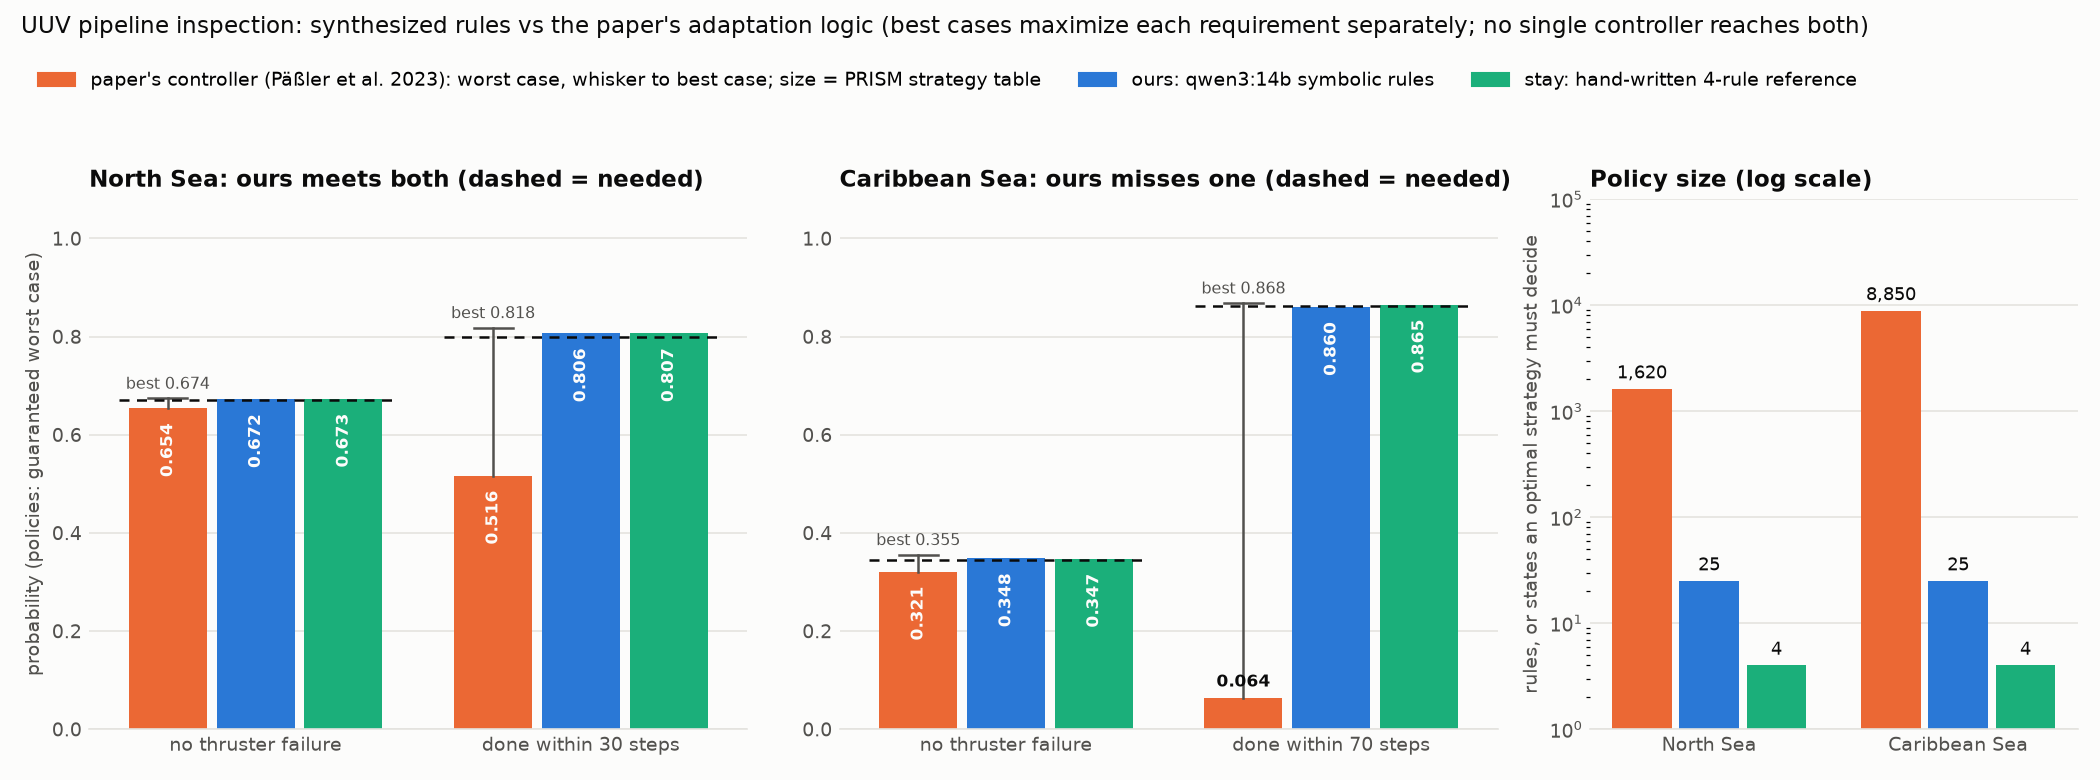
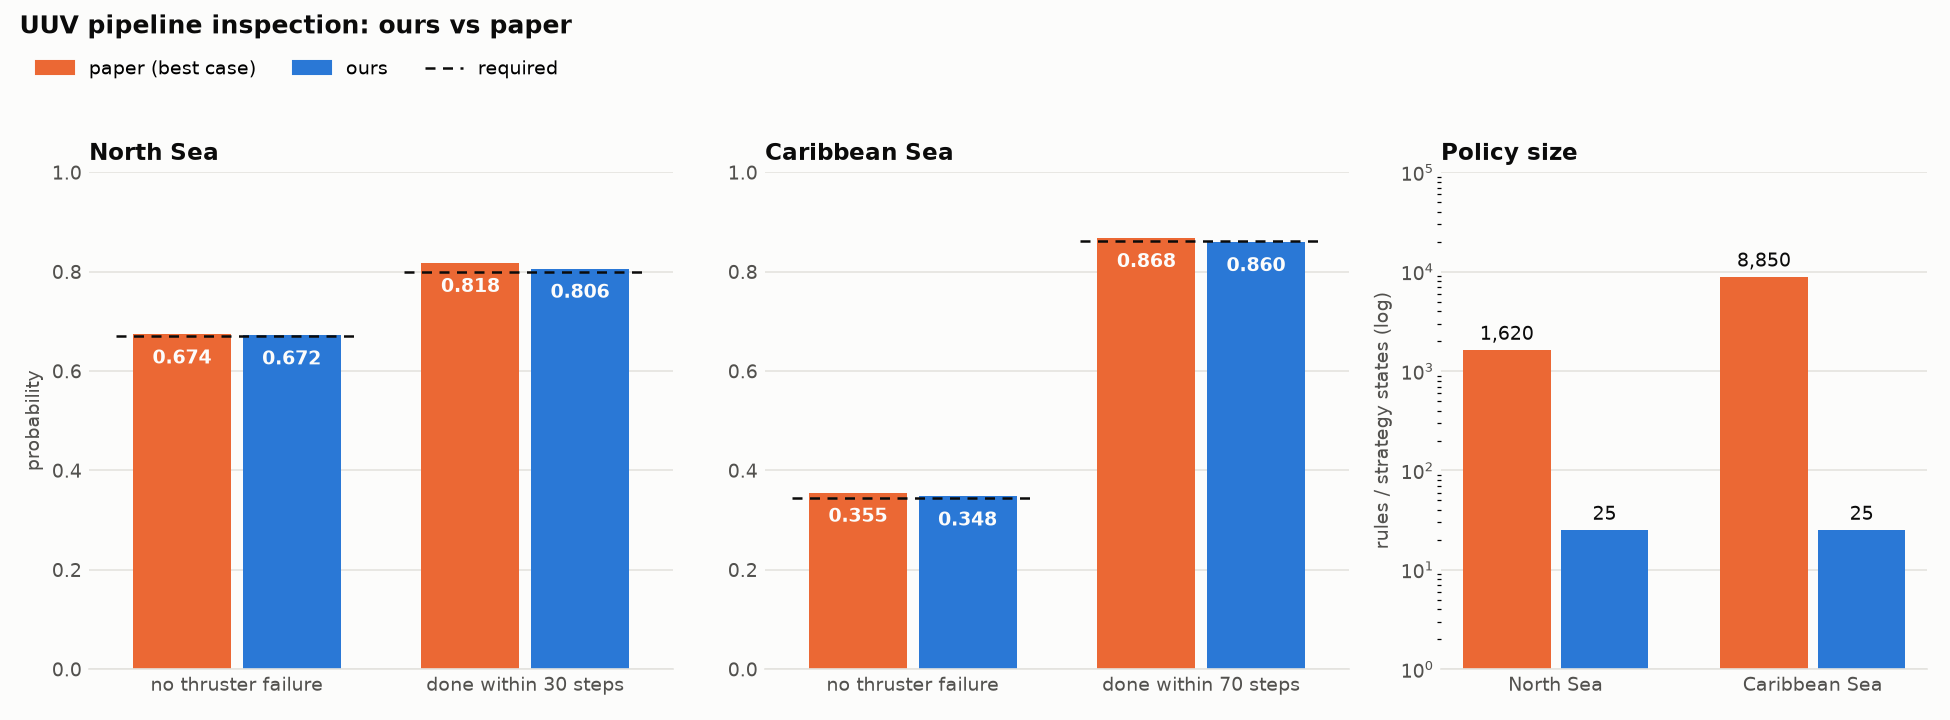
Declutter UUV summary figure: paper best case vs ours only

diff --git a/PRISM-Guided-Learning/viz/plot_uuv_summary.py b/PRISM-Guided-Learning/viz/plot_uuv_summary.py
@@ -3,10 +3,9 @@
 Usage (from PRISM-Guided-Learning/):
     python viz/plot_uuv_summary.py --symbolic out/results/symbolic_uuv --out viz/figures/uuv_summary.png
 
-Left: worst-case probability of our final policy and of the hand-written `stay` reference, against
-the paper's nondeterministic controller (bar = its worst case, whisker = its best case; each
-requirement is maximized separately, so no single controller reaches both best cases).
-Right: policy size, rules vs the number of states where an optimal PRISM strategy must choose.
+Left: verified probability of our final policy against the paper's controller at its best case
+(PRISM's maximum per requirement; each is maximized separately, so no single controller reaches
+both). Right: policy size, rules vs the number of states where an optimal PRISM strategy must choose.
 Also writes a markdown table with the paper's Table 2 measures (expected energy and time to
 finish) for each policy, and our North Sea rules transferred unchanged to the Caribbean.
 """
@@ -24,7 +23,7 @@ from core.domain import load_domain  # noqa: E402
 from core.rules import SymbolicPolicy  # noqa: E402
 from core.verifier import PolicyVerifier  # noqa: E402
 
-BLUE, ORANGE, GREEN = "#2a78d6", "#eb6834", "#1baf7a"
+BLUE, ORANGE = "#2a78d6", "#eb6834"
 SURFACE, INK, INK_2, GRID = "#fcfcfb", "#0b0b0b", "#52514e", "#e4e3df"
 COSTS = ['R{"energy"}min=? [ F "done" ]', 'R{"energy"}max=? [ F "done" ]',
          'R{"time"}min=? [ F "done" ]', 'R{"time"}max=? [ F "done" ]']
@@ -59,12 +58,11 @@ def main():
 
     domain = load_domain("uuv")
     instances = domain.load_instances(args.data)
-    stay = json.loads((domain.root / "data" / "reference_policies.json").read_text(encoding="utf-8"))["stay"]
     ours = [[(r["condition"], r["action"]) for r in json.loads(p.read_text(encoding="utf-8"))["final_rules"]]
             for p in sorted((args.symbolic / "outputs").glob("sample_*.json"))]
 
-    fig = plt.figure(figsize=(14, 5.2), facecolor=SURFACE)
-    grid = fig.add_gridspec(1, 3, width_ratios=[1.35, 1.35, 1])
+    fig = plt.figure(figsize=(13, 4.8), facecolor=SURFACE)
+    grid = fig.add_gridspec(1, 3, width_ratios=[1.2, 1.2, 1])
     rows, sizes = [], []
     for i, inst in enumerate(instances):
         verifier = PolicyVerifier(domain, inst)
@@ -72,63 +70,52 @@ def main():
         bare = verifier.runner.run(verifier.model, [f"{op}=? [ {r.formula} ]" for r in reqs for op in ("Pmin", "Pmax")]
                                    + COSTS).initial_values
         v_ours, c_ours = evaluate(verifier, ours[i])
-        v_stay, c_stay = evaluate(verifier, stay)
         name = inst.data["name"].replace("_", " ").title()
 
         ax = fig.add_subplot(grid[0, i])
         for j, r in enumerate(reqs):
-            lo, hi = bare[2 * j], bare[2 * j + 1]
-            bars = [(-0.27, lo, ORANGE), (0, v_ours.worst[r.name], BLUE), (0.27, v_stay.worst[r.name], GREEN)]
-            for dx, val, color in bars:
-                ax.bar(j + dx, val, width=0.24, color=color, zorder=2)
-                inside = val > 0.12
-                ax.text(j + dx, val - 0.03 if inside else val + 0.015, f"{val:.3f}", ha="center",
-                        va="top" if inside else "bottom", fontsize=8, fontweight="bold", zorder=5,
-                        color=SURFACE if inside else INK, rotation=90 if inside else 0)
-            ax.plot([j - 0.27] * 2, [lo, hi], color=INK_2, linewidth=1.2, zorder=3)
-            ax.plot([j - 0.33, j - 0.21], [hi] * 2, color=INK_2, linewidth=1.2, zorder=3)
-            ax.text(j - 0.27, hi + 0.012, f"best {hi:.3f}", ha="center", va="bottom", fontsize=7.5, color=INK_2)
+            for dx, val, color in ((-0.19, bare[2 * j + 1], ORANGE), (0.19, v_ours.worst[r.name], BLUE)):
+                ax.bar(j + dx, val, width=0.34, color=color, zorder=2)
+                ax.text(j + dx, val - 0.03, f"{val:.3f}", ha="center", va="top", fontsize=9, fontweight="bold",
+                        color=SURFACE, zorder=5)
             ax.plot([j - 0.42, j + 0.42], [r.threshold] * 2, color=INK, linestyle=(0, (4, 3)), linewidth=1.2, zorder=4)
         ax.set_xticks(range(len(reqs)))
         ax.set_xticklabels(["no thruster failure", f"done within {inst.data['deadline']} steps"])
-        ax.set_ylim(0, 1.08)
-        ok = all(r.satisfied(v_ours.worst[r.name]) for r in reqs)
-        style(ax, f"{name}: ours {'meets both' if ok else 'misses one'} (dashed = needed)")
+        ax.set_ylim(0, 1)
+        style(ax, name)
         if i == 0:
-            ax.set_ylabel("probability (policies: guaranteed worst case)", color=INK_2, fontsize=9)
+            ax.set_ylabel("probability", color=INK_2, fontsize=9)
 
         decision_states = len(verifier.optimum()[2].states) - len(verifier.forced_states())
-        sizes.append((name, len(ours[i]), len(stay), decision_states))
+        sizes.append((name, len(ours[i]), decision_states))
         rows.append((name, "paper controller (range)", f"{bare[0]:.3f}..{bare[1]:.3f}", f"{bare[2]:.3f}..{bare[3]:.3f}",
                      f"{bare[4]:.2f}..{bare[5]:.2f}", f"{bare[6]:.2f}..{bare[7]:.2f}", f">= {decision_states} states"))
-        for label, v, c, n in (("ours (qwen3:14b)", v_ours, c_ours, len(ours[i])), ("stay (hand-written)", v_stay, c_stay, len(stay))):
-            rows.append((name, label, f"{v.worst[reqs[0].name]:.3f}", f"{v.worst[reqs[1].name]:.3f}",
-                         f"{c[0]:.2f}", f"{c[2]:.2f}", f"{n} rules"))
+        rows.append((name, "ours (qwen3:14b)", f"{v_ours.worst[reqs[0].name]:.3f}", f"{v_ours.worst[reqs[1].name]:.3f}",
+                     f"{c_ours[0]:.2f}", f"{c_ours[2]:.2f}", f"{len(ours[i])} rules"))
         if i == 1:
             v_tr, c_tr = evaluate(verifier, ours[0])
             rows.append((name, "ours, North Sea rules reused", f"{v_tr.worst[reqs[0].name]:.3f}",
                          f"{v_tr.worst[reqs[1].name]:.3f}", f"{c_tr[0]:.2f}", f"{c_tr[2]:.2f}", f"{len(ours[0])} rules"))
 
     ax = fig.add_subplot(grid[0, 2])
-    for k, (name, n_ours, n_stay, n_opt) in enumerate(sizes):
-        for dx, val, color in ((-0.27, n_opt, ORANGE), (0, n_ours, BLUE), (0.27, n_stay, GREEN)):
-            ax.bar(k + dx, val, width=0.24, color=color, zorder=2)
-            ax.text(k + dx, val * 1.15, f"{val:,}", ha="center", va="bottom", fontsize=8.5, color=INK)
+    for k, (name, n_ours, n_opt) in enumerate(sizes):
+        for dx, val, color in ((-0.19, n_opt, ORANGE), (0.19, n_ours, BLUE)):
+            ax.bar(k + dx, val, width=0.34, color=color, zorder=2)
+            ax.text(k + dx, val * 1.15, f"{val:,}", ha="center", va="bottom", fontsize=9, color=INK)
     ax.set_yscale("log")
     ax.set_ylim(1, 10 ** 5)
     ax.set_xticks(range(len(sizes)))
     ax.set_xticklabels([s[0] for s in sizes])
-    style(ax, "Policy size (log scale)")
-    ax.set_ylabel("rules, or states an optimal strategy must decide", color=INK_2, fontsize=9)
+    style(ax, "Policy size")
+    ax.set_ylabel("rules / strategy states (log)", color=INK_2, fontsize=9)
 
-    handles = [plt.Rectangle((0, 0), 1, 1, color=c) for c in (ORANGE, BLUE, GREEN)]
-    fig.legend(handles, ["paper's controller (Päßler et al. 2023): worst case, whisker to best case; size = PRISM strategy table",
-                         "ours: qwen3:14b symbolic rules", "stay: hand-written 4-rule reference"],
-               loc="upper left", bbox_to_anchor=(0.01, 0.93), frameon=False, fontsize=9, ncol=3)
-    fig.suptitle("UUV pipeline inspection: synthesized rules vs the paper's adaptation logic "
-                 "(best cases maximize each requirement separately; no single controller reaches both)",
-                 x=0.01, ha="left", fontsize=11, color=INK)
-    fig.tight_layout(rect=(0, 0, 1, 0.87))
+    handles = [plt.Rectangle((0, 0), 1, 1, color=c) for c in (ORANGE, BLUE)]
+    handles.append(plt.Line2D([], [], color=INK, linestyle=(0, (4, 3)), linewidth=1.2))
+    fig.legend(handles, ["paper (best case)", "ours", "required"],
+               loc="upper left", bbox_to_anchor=(0.01, 0.94), frameon=False, fontsize=9, ncol=3)
+    fig.suptitle("UUV pipeline inspection: ours vs paper", x=0.01, ha="left", fontsize=12, color=INK,
+                 fontweight="bold")
+    fig.tight_layout(rect=(0, 0, 1, 0.9))
     args.out.parent.mkdir(parents=True, exist_ok=True)
     fig.savefig(args.out, dpi=150, facecolor=SURFACE)
 

diff --git a/PRISM-Guided-Learning/viz/figures/uuv_summary.md b/PRISM-Guided-Learning/viz/figures/uuv_summary.md
@@ -2,10 +2,8 @@
 |---|---|---|---|---|---|---|
 | North Sea | paper controller (range) | 0.654..0.674 | 0.516..0.818 | 24.78..44.39 | 23.66..32.40 | >= 1620 states |
 | North Sea | ours (qwen3:14b) | 0.672 | 0.806 | 26.04 | 23.93 | 25 rules |
-| North Sea | stay (hand-written) | 0.673 | 0.807 | 26.43 | 24.07 | 4 rules |
 | Caribbean Sea | paper controller (range) | 0.321..0.355 | 0.064..0.868 | 59.08..4723.29 | 55.54..1315.58 | >= 8850 states |
 | Caribbean Sea | ours (qwen3:14b) | 0.348 | 0.860 | 62.99 | 55.88 | 25 rules |
-| Caribbean Sea | stay (hand-written) | 0.347 | 0.865 | 62.17 | 55.67 | 4 rules |
 | Caribbean Sea | ours, North Sea rules reused | 0.347 | 0.824 | 98.52 | 73.92 | 25 rules |
 
 Paper controller rows give its min..max over all resolutions (energy/time = the paper's Table 2). Policy rows are exact (fully covering policies: best = worst).
